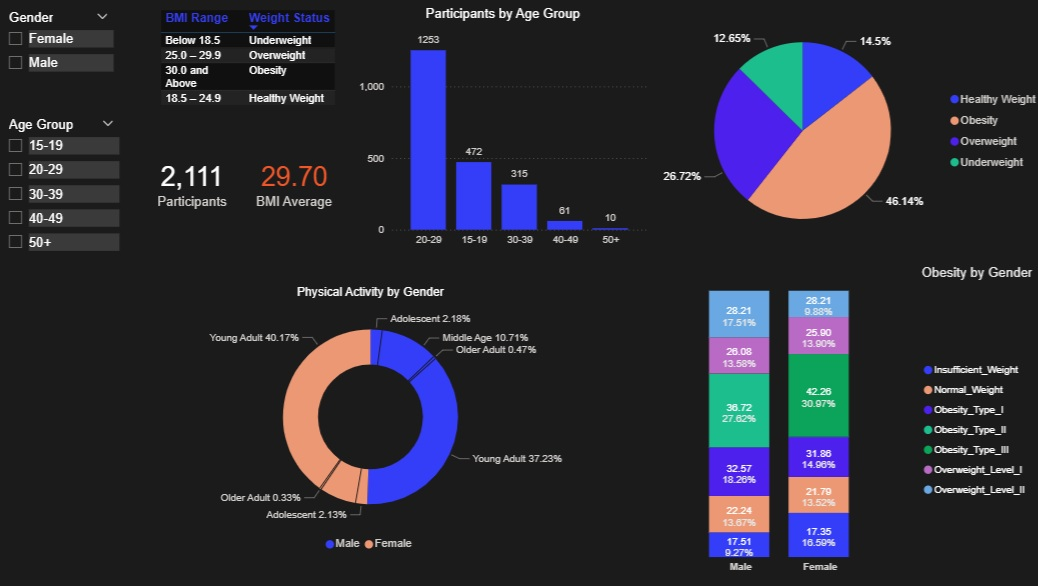
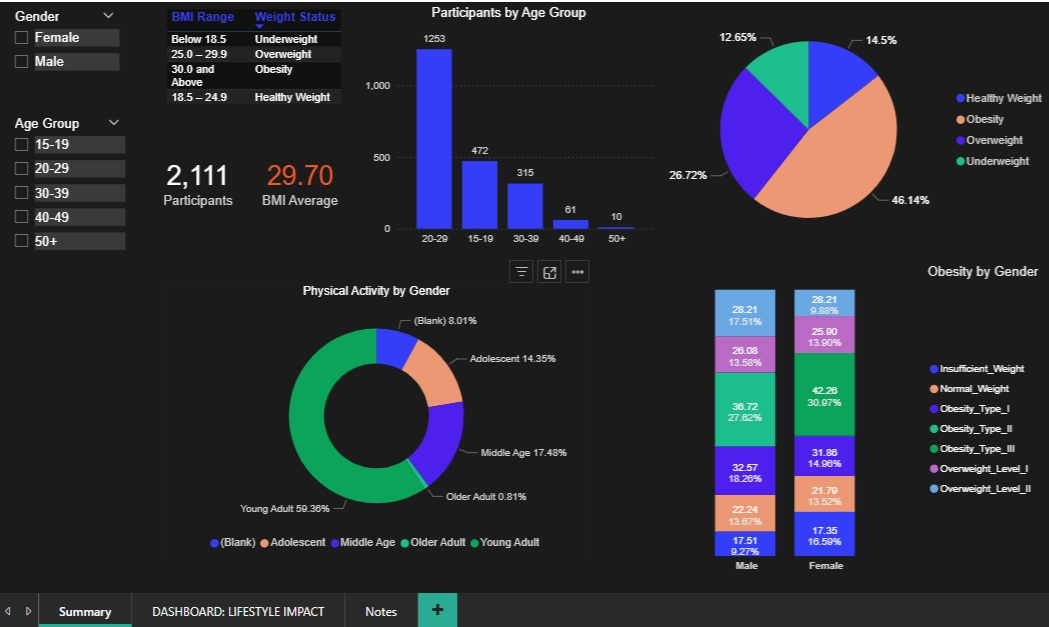
Cim123456

diff --git a/projects.html b/projects.html
@@ -76,11 +76,11 @@
                 <!-- Project Header -->
                 <div class="project-header">
                     <span class="project-number">01</span>
-                    <h2>Amazin Mart Sales Performance Dashboard</h2>
+                    <h2>Amazin Mart Sales </h2>
                     <div class="project-meta">
                         <span class="meta-tool">📊 Tableau</span>
-                        <span class="meta-date">2026</span>
-                        <span class="meta-duration">3 days</span>
+                        <span class="meta-date">March 2026</span>
+                <!--        <span class="meta-duration">3 days</span>-->
                     </div>
                 </div>
 
@@ -138,12 +138,10 @@
                     <div class="case-section">
                         <h3>💡 Key Findings</h3>
                         <ul>
-                            <li>The United Kingdom's corporate profit growth outperformed Germany's by 4.76%</li>
-                            <li>Storage sub-category showed highest growth 
-                                (70.12% on average YoY) with a margin of 8%</li>
-                            <li>Consumer segment represented 52% of revenue 
-                                with a 12% of profit margin</li>
-                            <li>Overall, the Tables sub-category has been a disaster, decreasing by 111% year-over-year on average, with its worst drop occurring in 2012</li>
+                            <li><strong>Regional Performance:</strong> The United Kingdom led regional corporate profit growth, outperforming Germany by 4.76 percentage points.</li>
+                            <li><strong>Expansion:</strong> The Storage sub-category emerged as the top portfolio growth catalyst, averaging a robust 70.12% YoY increase while maintaining an 8.0% profit margin</li>
+                            <li><strong>Core Revenue Anchor:</strong> The Consumer Segment continues to anchor the business, commanding 52.0% of total revenue and delivering a strong, stable 12.0% profit margin.</li>
+                            <li><strong>Underperformance:</strong> The Tables sub-category represents a critical area of concern, experiencing a severe 111.0% average YoY decline, largely driven by a sharp contraction beginning in 2012.</li>
                         </ul>
                     </div>
 
@@ -217,11 +215,11 @@
             <div class="section-container">
                 <div class="project-header">
                     <span class="project-number">02</span>
-                    <h2>Obesity Levels Based on Physical Activity and Nutritional Habits</h2>
+                    <h2>Obesity Levels </h2>
                     <div class="project-meta">
                         <span class="meta-tool">📈 Power BI</span>
                         <span class="meta-date">March 2025</span>
-                        <span class="meta-duration">3 days</span>
+                   <!--     <span class="meta-duration">3 days</span>-->
                     </div>
                 </div>
 
@@ -229,10 +227,7 @@
                     <div class="case-section">
                         <h3>🎯 Business Case</h3>
                         <p>
-                            An organization with 1,470 employees was 
-                            experiencing unexplained attrition. HR needed 
-                            a way to identify which departments and 
-                            demographics had the highest turnover risk.
+                            This dashboard models and estimates individual obesity risk across Mexico, Peru, and Colombia. By correlating behavioral dietary habits with physical fitness metrics, it provides data-driven insights into regional health profiles
                         </p>
                     </div>
 
@@ -261,10 +256,11 @@
                     <div class="case-section">
                         <h3>💡 Key Findings</h3>
                         <ul>
-                            <li>Remote workers had 34% higher retention rate</li>
-                            <li>Employees with &lt;2 years tenure had 3x 
-                                attrition rate</li>
-                            <li>Sales department had highest turnover at 21%</li>
+                            <li><strong>High Prevalence of Obesity:</strong> 46.0% of all study participants are classified as obese, exhibiting a Body Mass Index (BMI) greater than 30.</li>
+                            <li><strong>Demographic Activity Trends:</strong> The Young Adult (20–29) cohort represents the most physically active segment, with 59.36% engagement.</li>
+                            <li><strong>Gender-Specific Severity:</strong> Clinical severity varies significantly by gender; 
+                                31.0% of female participants present with Class III (Severe) Obesity (BMI > 40), 
+                                while 27.62% of male participants present with Class II Obesity (BMI  between  35.0  and  39.9).</li>
                         </ul>
                     </div>
 
@@ -335,7 +331,7 @@
                     <h2> Lamborghini Sales 2020 - 2025 </h2>
                     <div class="project-meta">
                         <span class="meta-tool">📉 Looker Studio</span>
-                        <span class="meta-date">2025</span>
+                        <span class="meta-date"> April 2026</span>
                     </div>
                 </div>
 
@@ -350,6 +346,25 @@
                     </div>
                     <!-- Add more case-section blocks as needed -->
                 </div>
+
+                <div class="case-section">
+                        <h3>📊 Dataset</h3>
+                        <ul>
+                            <li><strong>Source:</strong> https://www.kaggle.com/datasets/zahranusratt/lamborghini-global-sales-dataset-20202025</li>
+                            <li><strong>Size:</strong> 54 unique records</li>
+                            <li><strong>Fields:</strong> 10 attributes including 
+                                model, region, Base Price (USD), Sales Volume, etc.</li>
+                        </ul>
+                    </div>
+                
+                <div class="case-section">
+                        <h3>💡 Key Findings</h3>
+                        <ul>
+                            <li><strong>Product Performance:</strong> Urus (Gasoline) established itself as the primary portfolio growth driver, generating a dominant $13.0B in cumulative revenue from 2020 through 2025.</li>
+                            <li><strong>Consumer Preference:</strong> Black remains the highly preferred aesthetic choice globally, accounting for 31.76% of all model configurations sold.</li>
+                            <li><strong>Geographic Distribution:</strong> The Americas continues to be the brand's cornerstone market, capturing 39.37% of total global sales volume.</li>
+                        </ul>
+                    </div>    
 
                 <div class="dashboard-embed" id="dashboard-marketing">
                     <iframe width="850" height="638" src="https://datastudio.google.com/embed/reporting/7411cda6-850b-47b6-ae97-eda72de70d25/page/p_v1l6dx002d" frameborder="0" style="border:0" allowfullscreen sandbox="allow-storage-access-by-user-activation allow-scripts allow-same-origin allow-popups allow-popups-to-escape-sandbox"></iframe>

diff --git a/contact.html b/contact.html
@@ -86,7 +86,7 @@
                           - Honeypot field (catches bots)
                           - CAPTCHA option available
                           - Your email is NOT exposed in the HTML
-                            (FormSubmit hashes it after first use)
+                            (FormSubmit hashes it after first use) 
                         -->
                         <form action="https://formsubmit.co/[email redacted]" 
                               method="POST"